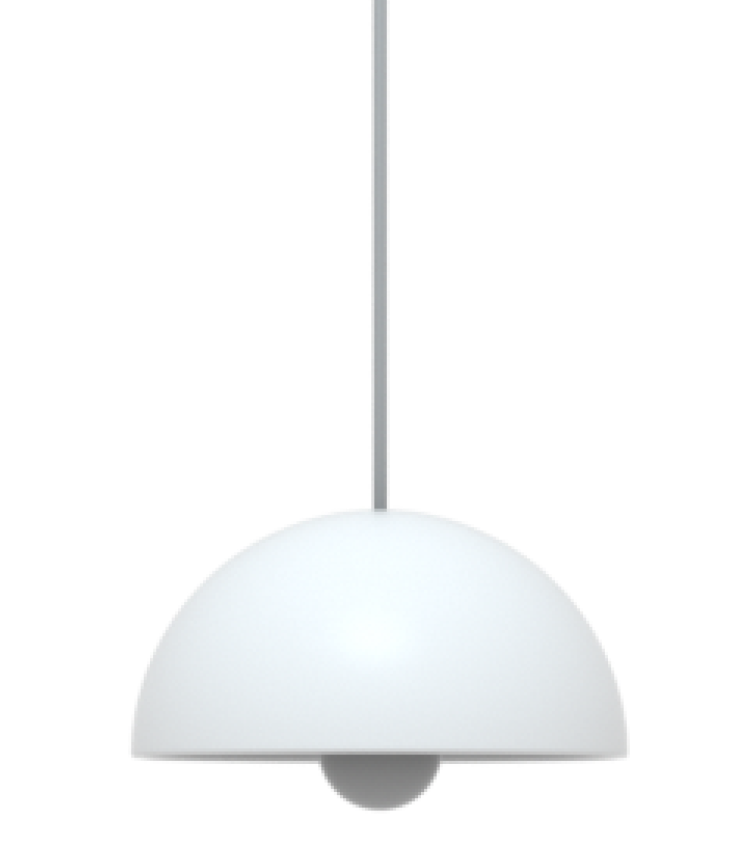
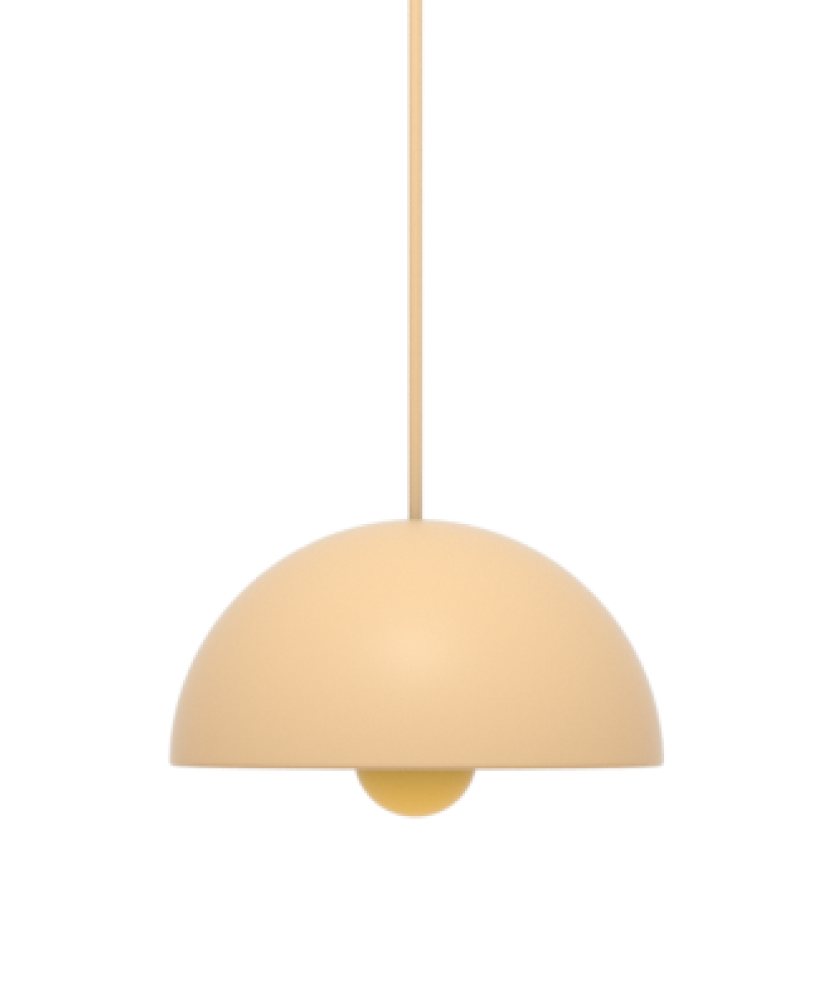
[CHORE] SelectColor.js - 이미지 변경

Changed region(s): [[0.1546, 0.0, 0.8656, 0.9835]]

diff --git a/src/css/color.module.css b/src/css/color.module.css
@@ -1,3 +1,12 @@
+.background {
+  width: 100vw;
+  height: 100vh;
+  background-color: #fff8ef;
+  display: flex;
+  justify-content: center;
+  align-items: center;
+}
+
 .flex_div {
   height: 85%;
   width: 100%;
@@ -24,6 +33,7 @@
   flex-wrap: wrap;
   justify-content: center;
   align-items: center;
+  z-index: 1;
   /* background-color: cadetblue; */
 }
 .color_chip {
@@ -125,14 +135,14 @@
   background-color: #0c374c;
 }
 #color16 {
-  background-color: #bd7f37;
+  background-color: #2ecdad;
 }
 #color16_2 {
   width: 20px;
   height: 40px;
   border-bottom-left-radius: 40px;
   border-top-left-radius: 40px;
-  background-color: #0c374c;
+  background-color: #142961;
 }
 
 .theme_img {
@@ -142,17 +152,17 @@
   /* background-color: indianred; */
 }
 .change_img {
-  width: 560px;
+  width: 550px;
   position: absolute;
-  top: 30px;
-  left: -30px;
+  top: 0px;
+  left: -50px;
   z-index: 1;
 }
 .fix_img {
-  width: 450px;
+  width: 440px;
   position: absolute;
-  top: 50px;
-  left: 2px;
+  top: 100px;
+  left: 5px;
 }
 .light_img {
   width: 200px;
@@ -165,6 +175,7 @@
   position: absolute;
   bottom: 0;
   left: 0;
+  /* background-color: blanchedalmond; */
 }
 
 .skip_btn {

diff --git a/src/routes/SelectColor.js b/src/routes/SelectColor.js
@@ -32,7 +32,7 @@ function SelectColor() {
     setTab(index);
   };
   return (
-    <div className={common.background}>
+    <div className={style.background}>
       <div className={style.flex_div}>
         <h1 className={common.title}>
           새로 입주하실 브라우저의 <br /> 테마 컬러를 골라볼까요?
@@ -206,7 +206,7 @@ function SelectColor() {
           </div>
           <div className={style.theme_img}>
             <img
-              alt="색상이 적용되지 않은 브라우저 탭 이미지"
+              alt="브라우저 상단 탭 이미지"
               src={require(`../img/theme_img/theme_color${tab}.png`)}
               className={style.change_img}
             ></img>
